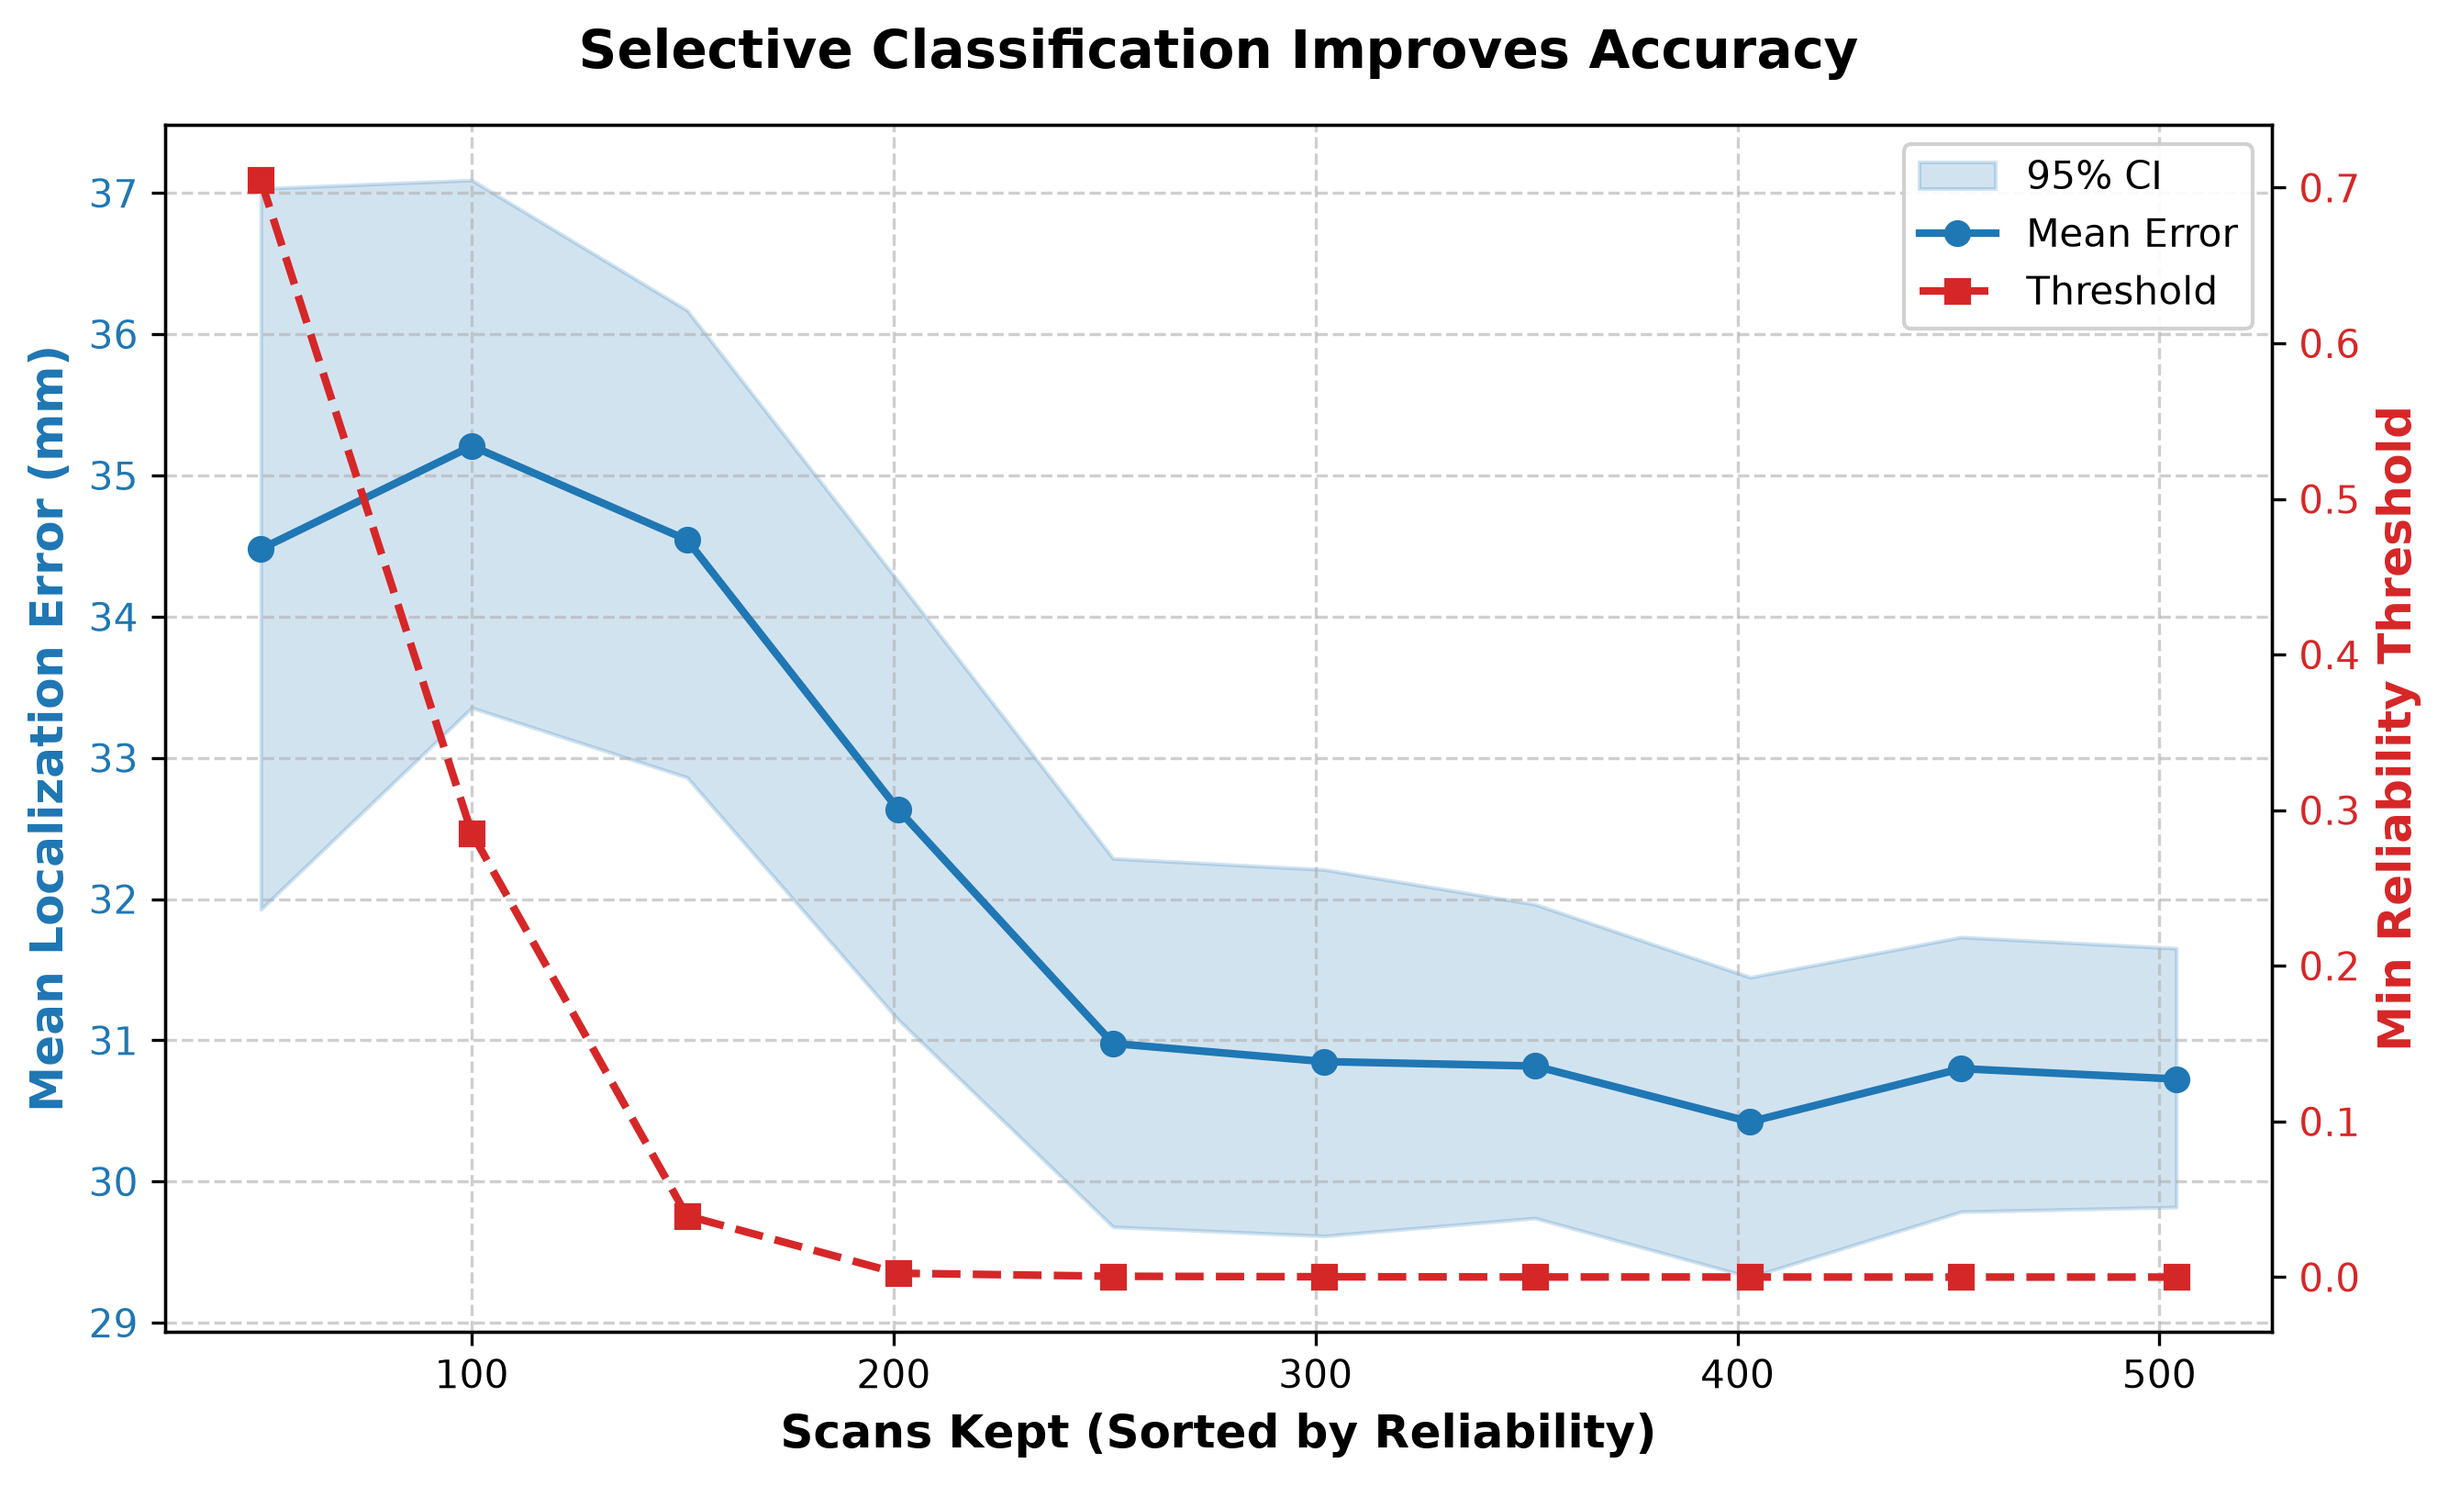
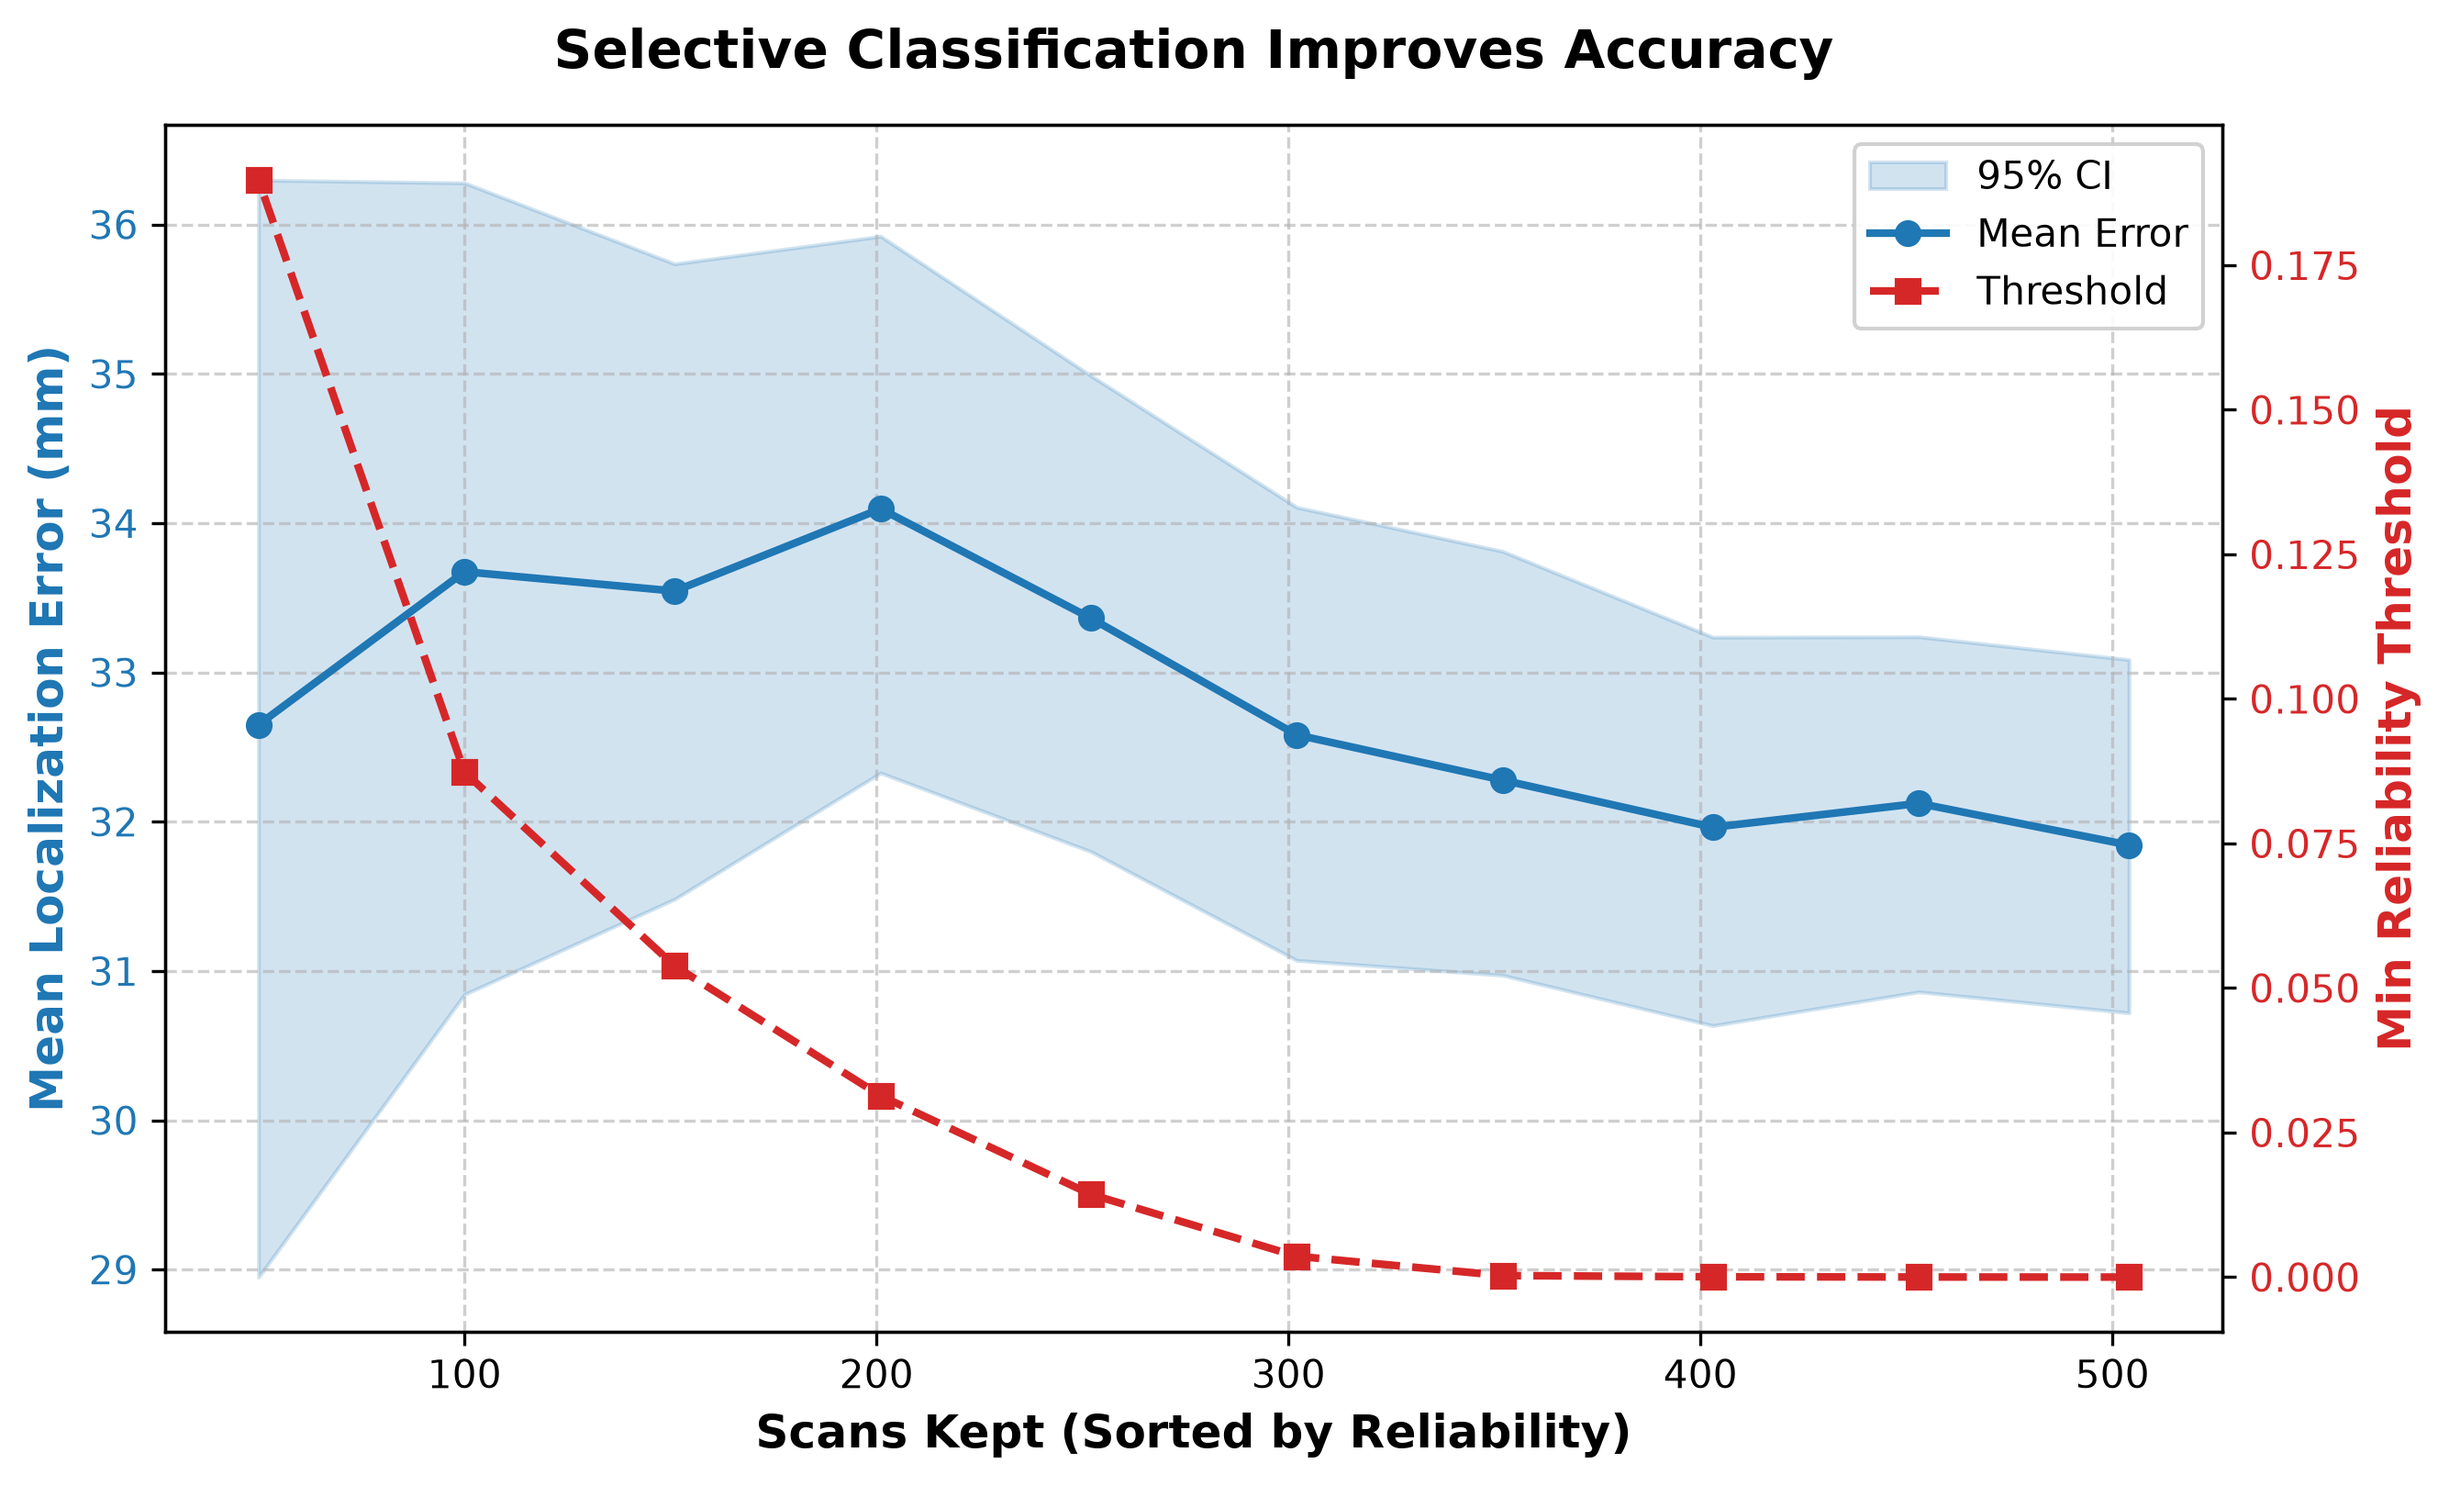
Update: aku sudah lupa apa yg diperbaiki

diff --git a/coords_check.py b/coords_check.py
@@ -22,8 +22,8 @@ from src.pipeline import reconstruct_scan
 
 # Konfigurasi Threshold
 ERROR_THRESH_MM = 15.0
-REL_HIGH_THRESH = 0.70
-REL_LOW_THRESH = 0.30
+REL_HIGH_THRESH = 0.40
+REL_LOW_THRESH = 0.15
 
 def main():
     print("=" * 80)
@@ -50,7 +50,6 @@ def main():
     display_indices = set(rng.choice(n_scans, size=min(10, n_scans), replace=False))
 
     print(f"\n[2/4] Running reconstruction with NEW pipeline config (TVSVD=ON)...")
-    print(f"      (Note: use_rms_norm not yet implemented in pipeline.py, skipping for now)")
     
         # 3. Loop Evaluasi
     for idx in range(n_scans):
@@ -65,7 +64,7 @@ def main():
                 freq_axis=freq_axis,
                 use_tvsvd=True,          # NYALAKAN TVSVD
                 use_rms_norm=True,      # Ablation step 1: TVSVD only
-                bandpass_mode="full",
+                bandpass_mode="full",  # Ablation step 2: Bandpass 4-6 GHz
                 gate_ns=0.5,             # Ablation step 1: Gate standar dulu
                 return_diagnostics=True  # <-- WAJIB TRUE
             )
@@ -79,8 +78,12 @@ def main():
             
             # --- HITUNG RELIABILITY DARI GAMBAR MENTAH ---
             img_raw = result["diagnostics"]["image"]
-            rel_dict = rmx.evaluate_scan_reliability(img_raw)
-            
+            axis_mm = result["diagnostics"]["axis_mm"]
+            cf_val = result.get("cf_at_peak", None)
+            rel_dict = rmx.evaluate_scan_reliability(img_raw, axis_mm=axis_mm, 
+                                                    cf_at_peak=cf_val,
+                                                    saturation_radius_mm=5.0)
+                        
             rel = rel_dict.get("reliability_score", np.nan)
             D = rel_dict.get("peak_dominance", np.nan)
             B = rel_dict.get("boundary_risk", np.nan)
@@ -146,6 +149,76 @@ def main():
     
     df = pd.DataFrame(results_list)
     
+    from scipy.stats import spearmanr, pearsonr
+
+    rel = df["reliability"].to_numpy(dtype=float)
+    err = df["error"].to_numpy(dtype=float)
+    mask = ~(np.isnan(rel) | np.isnan(err))
+
+    rho, p_rho = spearmanr(rel[mask], err[mask])
+    r, p_r = pearsonr(rel[mask], err[mask])
+
+    print(f"\n--- RELIABILITY vs ERROR CORRELATION (PENENTU) ---")
+    print(f"Spearman rho: {rho:+.3f}  (p={p_rho:.4f})")
+    print(f"Pearson   r : {r:+.3f}  (p={p_r:.4f})")
+    print(f"N valid     : {mask.sum()}")
+    print()
+    print("INTERPRETASI:")
+    print("  rho NEGATIF signifikan → reliability tinggi = error rendah → abstrak SUPPORTED")
+    print("  rho ~ 0 atau POSITIF  → reliability TIDAK prediktif → abstrak BELUM didukung")
+
+    # === SIGNAL FIDELITY ANALYSIS ===
+    print(f"\n--- SIGNAL FIDELITY ANALYSIS ---")
+    rel_arr = df["reliability"].to_numpy(dtype=float)
+    err_arr = df["error"].to_numpy(dtype=float)
+    valid = ~(np.isnan(rel_arr) | np.isnan(err_arr))
+    rel_v = rel_arr[valid]
+    err_v = err_arr[valid]
+
+    # 1. Point-biserial: Reliability vs Near-GT (binary)
+    near_gt = (err_v <= ERROR_THRESH_MM).astype(int)
+    if 0 < near_gt.sum() < len(near_gt):
+        from scipy.stats import pointbiserialr
+        r_pb, p_pb = pointbiserialr(rel_v, near_gt)
+        print(f"Point-biserial (Rel vs Near-GT): r={r_pb:+.3f}, p={p_pb:.4f}")
+        if r_pb > 0 and p_pb < 0.05:
+            print("  ✅ High reliability correlates with prediction near GT")
+        else:
+            print("  ⚠  No significant correlation")
+
+    # 2. Mann-Whitney U: Error high-rel vs low-rel (non-parametric)
+    median_rel = np.nanmedian(rel_v)
+    high_mask = rel_v >= median_rel
+    low_mask = rel_v < median_rel
+    if high_mask.sum() > 0 and low_mask.sum() > 0:
+        from scipy.stats import mannwhitneyu
+        err_high = err_v[high_mask]
+        err_low = err_v[low_mask]
+        try:
+            u_stat, u_p = mannwhitneyu(err_high, err_low, alternative='less')
+            print(f"\nMann-Whitney U (high-rel error < low-rel error):")
+            print(f"  Mean error high-rel (n={high_mask.sum()}): {np.mean(err_high):.2f} mm")
+            print(f"  Mean error low-rel  (n={low_mask.sum()}):  {np.mean(err_low):.2f} mm")
+            print(f"  U={u_stat:.0f}, p={u_p:.4f}")
+            if u_p < 0.05:
+                print(f"  ✅ SIGNIFICANT — high-reliability scans have LOWER error!")
+                print(f"     This directly supports the abstract claim.")
+            else:
+                print(f"  ❌ Not significant (p={u_p:.4f})")
+        except Exception as e:
+            print(f"  Mann-Whitney failed: {e}")
+
+    # 3. Variance reduction
+    if high_mask.sum() > 0:
+        var_full = np.var(err_v)
+        var_high = np.var(err_high)
+        reduction = (1 - var_high / var_full) * 100 if var_full > 0 else 0
+        print(f"\nVariance Reduction (high-rel subset):")
+        print(f"  Full dataset variance:  {var_full:.2f}")
+        print(f"  High-rel variance:    {var_high:.2f}")
+        print(f"  Reduction:            {reduction:.1f}%")
+    # === END SIGNAL FIDELITY ===
+
     if len(df) > 0:
         print(f"\n--- Localization Performance ---")
         print(f"Mean Error: {df['error'].mean():.2f} mm")

diff --git a/rrs_mbi/metrics.py b/rrs_mbi/metrics.py
@@ -5,7 +5,8 @@ Heuristic Reliability Metrics for Microwave Breast Imaging.
 
 import numpy as np
 from scipy import ndimage
-from typing import Dict
+from typing import Dict, Optional
+
 
 def extract_breast_mask(image: np.ndarray, threshold_percentile: float = 15.0) -> np.ndarray:
     if not isinstance(image, np.ndarray) or image.size == 0:
@@ -18,19 +19,14 @@ def extract_breast_mask(image: np.ndarray, threshold_percentile: float = 15.0) -
     threshold = float(np.percentile(valid_pixels, threshold_percentile))
     mask = (image > threshold).astype(bool)
     
-    # Pylance fix: SciPy stubs incorrectly suggest this can return None. 
-    # We know it returns an ndarray, so we safely ignore the warning.
     mask = ndimage.binary_fill_holes(mask).astype(bool)  # type: ignore
-    
-    # Pylance fix: SciPy stubs incorrectly infer this return type as non-iterable.
-    # We know it returns a tuple (ndarray, int), so we safely ignore the warning.
     labeled_mask, num_features = ndimage.label(mask)  # type: ignore
     
     if num_features == 0:
         return np.zeros_like(image, dtype=bool)
         
     counts = np.bincount(labeled_mask.flat)
-    counts[0] = 0  # Abaikan background (label 0)
+    counts[0] = 0
     largest_component = int(np.argmax(counts))
     
     return (labeled_mask == largest_component).astype(bool)
@@ -47,11 +43,8 @@ def calculate_peak_dominance(image: np.ndarray, mask: np.ndarray) -> float:
     y, x = np.ogrid[:image.shape[0], :image.shape[1]]
     exclusion_zone = ((y - peak_coords[0])**2 + (x - peak_coords[1])**2) <= 25
     
-    # Pylance fix: Same SciPy stub issue as above
     internal_mask = ndimage.binary_erosion(mask.astype(bool), iterations=3).astype(bool)  # type: ignore
-    
     clutter_mask = np.logical_and(internal_mask, np.logical_not(exclusion_zone))
-    
     clutter_pixels = image[clutter_mask]
     
     if len(clutter_pixels) < 10:
@@ -71,7 +64,6 @@ def calculate_boundary_artifact_risk(image: np.ndarray, mask: np.ndarray, bounda
     if not np.any(mask):
         return 1.0
 
-    # Pylance fix: Force explicit casting to satisfy Pylance's strict ndarray check
     dist_map = np.asarray(ndimage.distance_transform_edt(mask), dtype=np.float64)  # type: ignore
     max_dist = float(np.max(dist_map))
     
@@ -79,8 +71,6 @@ def calculate_boundary_artifact_risk(image: np.ndarray, mask: np.ndarray, bounda
         return 1.0
 
     boundary_threshold = max_dist * (1.0 - boundary_ratio)
-    
-    # Use np.less to avoid Pylance operator overloading inference issues
     boundary_mask = np.logical_and(mask, np.less(dist_map, boundary_threshold))
     
     energy_boundary = float(np.sum(image[boundary_mask]**2)) + 1e-10
@@ -89,16 +79,49 @@ def calculate_boundary_artifact_risk(image: np.ndarray, mask: np.ndarray, bounda
     return float(min(1.0, energy_boundary / energy_total))
 
 
-def evaluate_scan_reliability(image: np.ndarray) -> Dict[str, float]:
+def calculate_geometric_plausibility(image: np.ndarray, axis_mm: Optional[np.ndarray],
+                                     saturation_radius_mm: float = 5.0) -> float:
+    """
+    NEW — Geometric-plausibility prior.
+
+    The circular antenna array produces a known coherent artifact at the array
+    centre. A reconstruction peak sitting on/near that centre is therefore more
+    likely to be artifact than a true target, while a peak displaced away from
+    the centre is more plausible. This factor down-weights central peaks and
+    saturates to 1.0 once the peak is beyond `saturation_radius_mm`.
+
+    Uses only general imaging-geometry knowledge (NOT per-scan ground truth).
+    """
+    if axis_mm is None:
+        return 1.0
+
+    peak_iy, peak_ix = np.unravel_index(np.argmax(image), image.shape)
+    peak_x = float(axis_mm[peak_ix])
+    peak_y = float(axis_mm[peak_iy])
+    pred_dist = float(np.hypot(peak_x, peak_y))
+
+    return float(min(1.0, pred_dist / saturation_radius_mm)**2)
+
+
+def evaluate_scan_reliability(image: np.ndarray, axis_mm=None, cf_at_peak=None,
+                              saturation_radius_mm: float = 5.0) -> Dict[str, float]:
     mask = extract_breast_mask(image)
     dominance = calculate_peak_dominance(image, mask)
     risk = calculate_boundary_artifact_risk(image, mask)
-    
+    geo = calculate_geometric_plausibility(image, axis_mm, saturation_radius_mm)
+
+    # CF-at-peak component (if available)
+    cf_factor = 1.0
+    if cf_at_peak is not None and not np.isnan(cf_at_peak):
+        cf_factor = float(np.clip(cf_at_peak, 0.0, 1.0))
+
     norm_dominance = min(1.0, dominance / 5.0)
-    reliability = float(norm_dominance * (1.0 - risk))
-    
+    reliability = float(norm_dominance * (1.0 - risk) * geo * cf_factor)
+
     return {
         "peak_dominance": float(dominance),
         "boundary_risk": float(risk),
+        "geo_plausibility": float(geo),
+        "cf_at_peak": float(cf_at_peak) if cf_at_peak is not None else float("nan"),
         "reliability_score": reliability
     }

diff --git a/rrs_mbi/evaluator.py b/rrs_mbi/evaluator.py
@@ -113,7 +113,8 @@ def run_evaluation() -> pd.DataFrame:
 
             img = res["diagnostics"]["image"]
             axis_mm = res["diagnostics"]["axis_mm"]
-            rel_metrics = evaluate_scan_reliability(img)
+            cf_val = res.get("cf_at_peak", None)
+            rel_metrics = evaluate_scan_reliability(img, axis_mm=axis_mm, cf_at_peak=cf_val, saturation_radius_mm=5.0)
 
             # Ground Truth
             gt_x = float(res.get("gt_x_mm", np.nan))

diff --git a/src/data_loading.py b/src/data_loading.py
@@ -207,7 +207,7 @@ def load_all_data(s21_path=S21_PATH, meta_path=META_PATH, csv_path=PHANTOM_CSV_P
     print(f"[data_loading] s21 scans: {s21.shape[0]}  |  "
           f"tumor_model rows: {len(tumor_model)}  |  usable range: 0..{n_valid -1}")
     
-    n_freq = s21.shape[0]
+    n_freq = s21.shape[1]
     freq_axis = np.linspace(1e9, 8e9, n_freq)
     print(f"[data_loading] Reconstructed freq_axis: {n_freq} points from 1-8 GHz")
     
